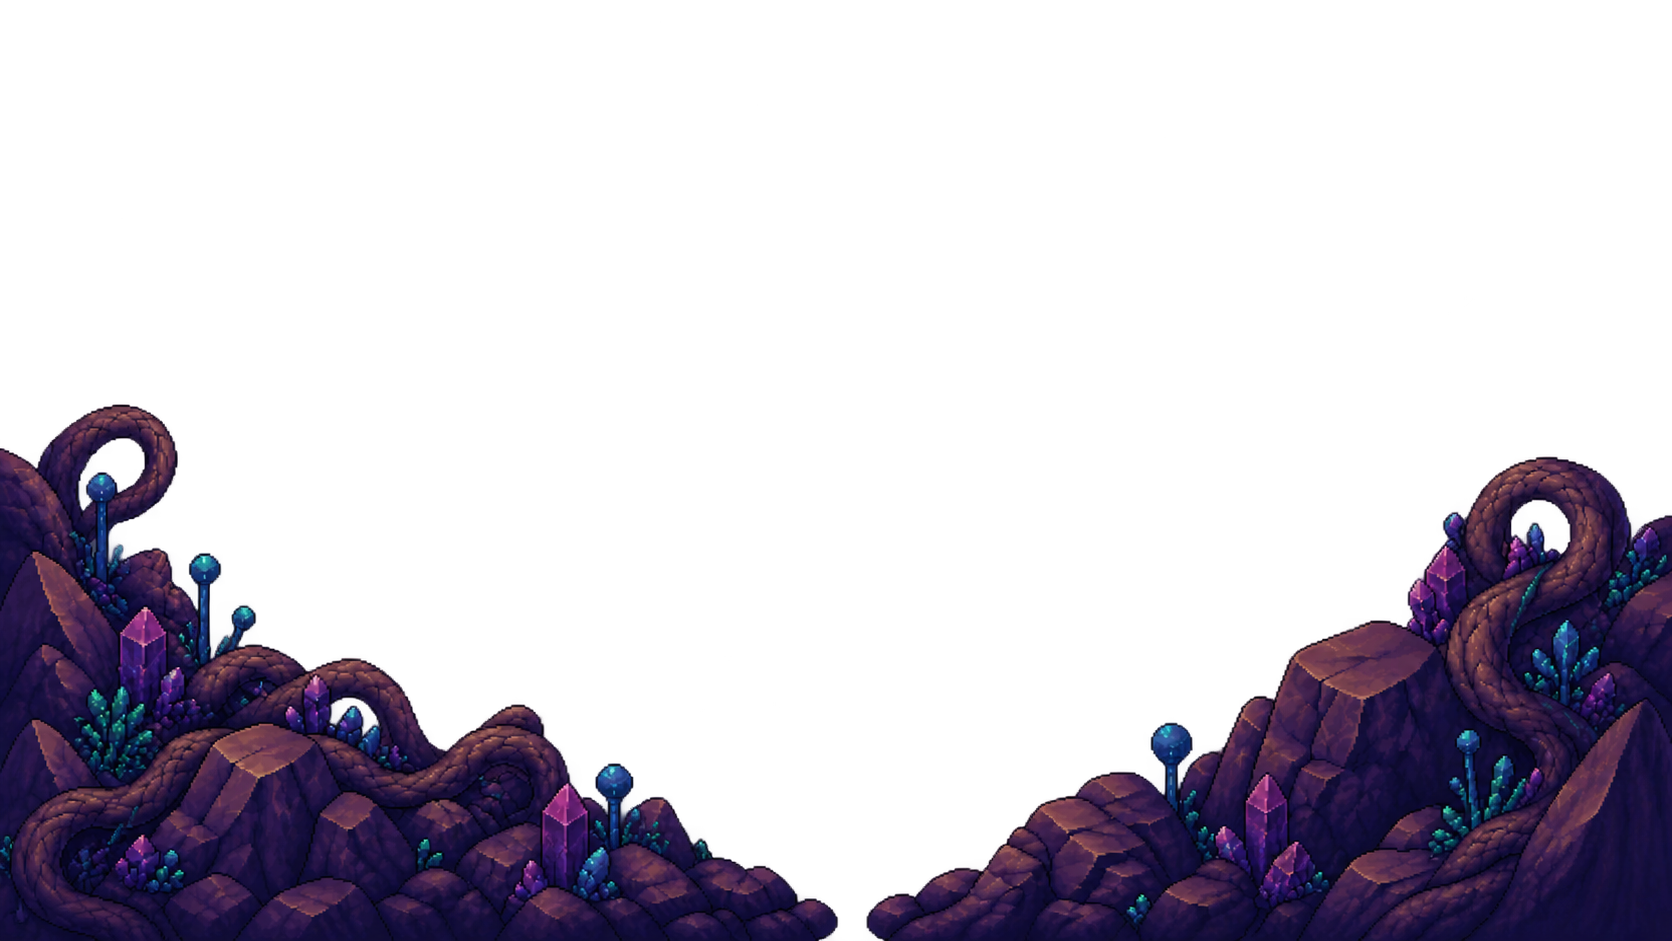
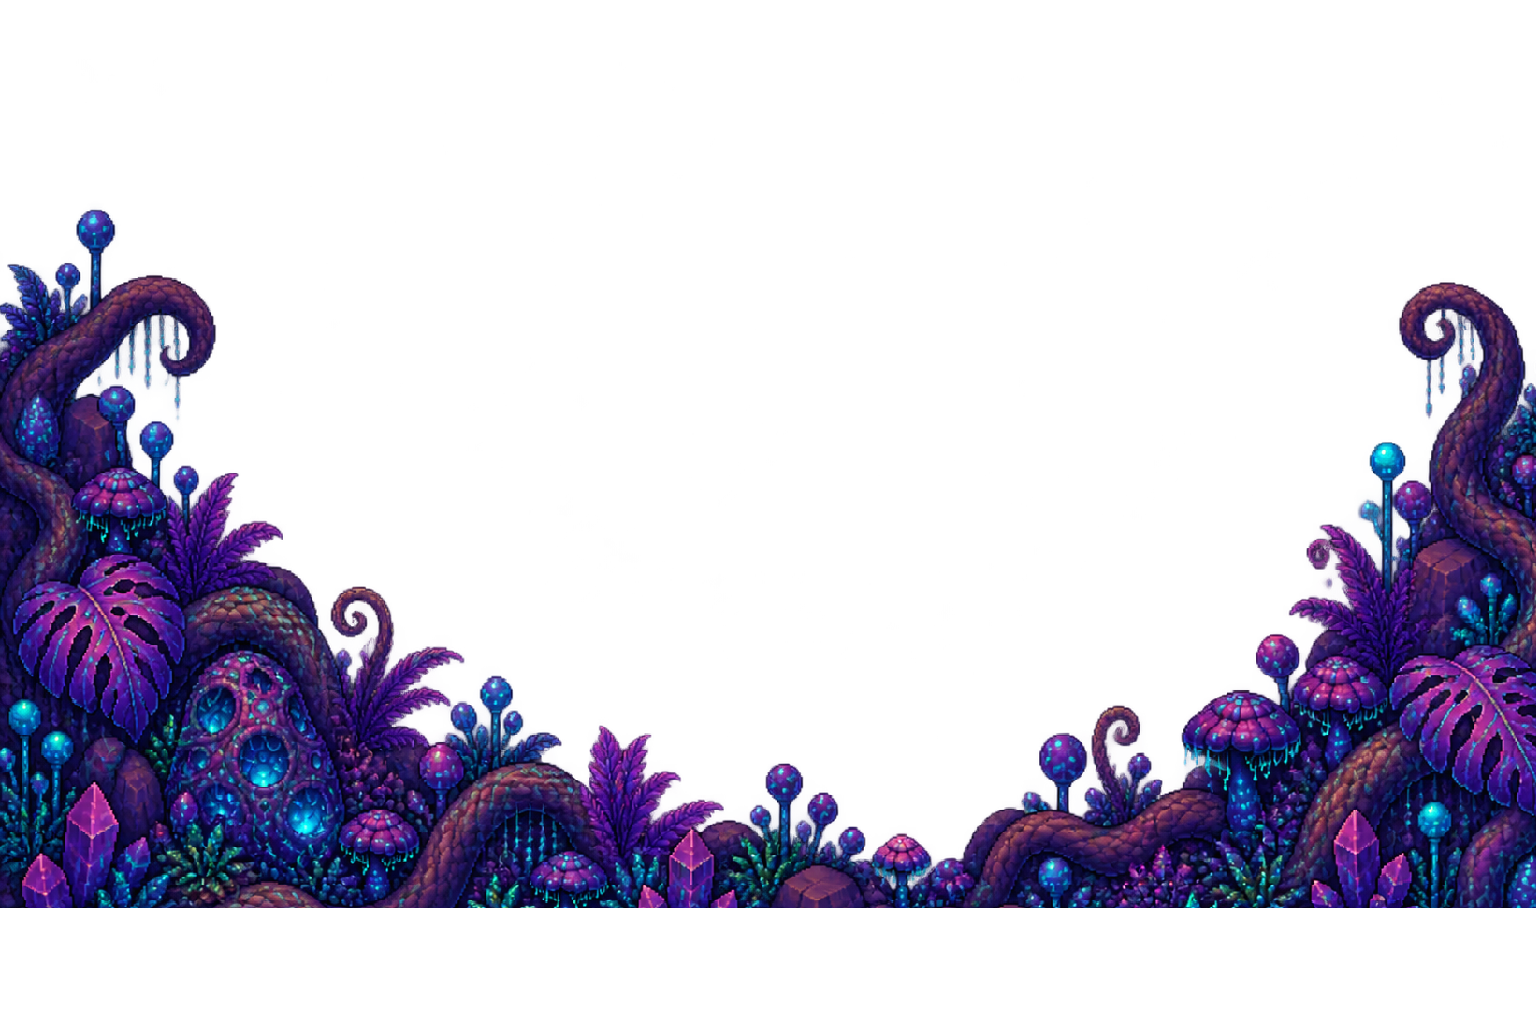
feat: integrate inactive BioBattery into initial map state
- Add BioBattery directly to the starting map
- Commented  BioBattery construction flow
- Commented obsolete construction objective and

diff --git a/src/game/buildings/buildingsConstructions/handleBioBatteryConstruction.ts b/src/game/buildings/buildingsConstructions/handleBioBatteryConstruction.ts
@@ -1,42 +1,42 @@
-import type { SetStateAction } from "react";
-import type { Ressources } from "../../type";
-import type { Building } from "../buildings.type";
-import { BUILDING_CONFIG } from "../buildingsConfig";
-import { canAffordBuilding } from "../canAffordBuilding";
-import type React from "react";
-import { substractBuildingCost } from "../substractBuildingCost";
+// import type { SetStateAction } from "react";
+// import type { Ressources } from "../../type";
+// import type { Building } from "../buildings.type";
+// import { BUILDING_CONFIG } from "../buildingsConfig";
+// import { canAffordBuilding } from "../canAffordBuilding";
+// import type React from "react";
+// import { substractBuildingCost } from "../substractBuildingCost";
 
 
-//This file should be later replaced with an orchestrative function in charge of the dispatch, depending on the building the user wants to build
-export const handleBioBatteryConstruction = (
-    buildings : Building[],
-    ressources : Ressources,
-    setRessources : React.Dispatch<SetStateAction<Ressources>>,
-    setBuildings : React.Dispatch<SetStateAction<Building[]>>
-  ) => {
-    const config = BUILDING_CONFIG.bioBattery;
+// //This file should be later replaced with an orchestrative function in charge of the dispatch, depending on the building the user wants to build
+// export const handleBioBatteryConstruction = (
+//     buildings : Building[],
+//     ressources : Ressources,
+//     setRessources : React.Dispatch<SetStateAction<Ressources>>,
+//     setBuildings : React.Dispatch<SetStateAction<Building[]>>
+//   ) => {
+//     const config = BUILDING_CONFIG.bioBattery;
 
-    const buildingCost : Partial<Ressources> = config.cost
+//     const buildingCost : Partial<Ressources> = config.cost
 
-    const bioBatteryAlreadyExists = buildings.some(
-      (building) => building.type === "bioBattery",
-    );
+//     const bioBatteryAlreadyExists = buildings.some(
+//       (building) => building.type === "bioBattery",
+//     );
 
-    if (bioBatteryAlreadyExists) return;
+//     if (bioBatteryAlreadyExists) return;
 
-    if (!canAffordBuilding(ressources, buildingCost))
-      return;
+//     if (!canAffordBuilding(ressources, buildingCost))
+//       return;
 
-    setRessources((currentRessources) =>
-      substractBuildingCost(currentRessources, buildingCost),
-    );
+//     setRessources((currentRessources) =>
+//       substractBuildingCost(currentRessources, buildingCost),
+//     );
 
-    setBuildings((currentBuildings) => [
-      ...currentBuildings,
-      {
-        id: crypto.randomUUID(),
-        type: "bioBattery",
-        tileId : config.constructionTileId,
-      },
-    ]);
-  };
+//     setBuildings((currentBuildings) => [
+//       ...currentBuildings,
+//       {
+//         id: crypto.randomUUID(),
+//         type: "bioBattery",
+//         tileId : config.constructionTileId,
+//       },
+//     ]);
+//   };

diff --git a/src/rendering/environment/drawMidground.ts b/src/rendering/environment/drawMidground.ts
@@ -6,14 +6,130 @@ export const drawMidground = (
   assets: GameAssets,
 ) => {
   const image = assets.midground;
+  const secondImage = assets.midgroundTwo
+  const thirdImage = assets.midgroundThree
+
+
+  const fillerOne = assets.midgroundFillerOne
 
   if (!image) return;
 
   ctx.drawImage(
-    image,
-    0,
-    -205,
-    WORLD_WIDTH,
-    WORLD_HEIGHT,
+    thirdImage,
+    WORLD_WIDTH / 3,
+    -55,
+    WORLD_WIDTH / 3,
+    WORLD_HEIGHT / 3,
   );
+
+   ctx.drawImage(
+    thirdImage,
+    WORLD_WIDTH / 3,
+    -75,
+    WORLD_WIDTH / 3,
+    WORLD_HEIGHT / 3,
+  );
+
+    ctx.drawImage(
+    secondImage,
+    850,
+    -150,
+    WORLD_WIDTH / 3,
+    WORLD_HEIGHT / 2,
+  );
+
+      ctx.drawImage(
+    thirdImage,
+    450,
+    -160,
+    WORLD_WIDTH / 3,
+    WORLD_HEIGHT / 2,
+  );
+
+
+      ctx.drawImage(
+    thirdImage,
+    950,
+    -125,
+    WORLD_WIDTH / 3,
+    WORLD_HEIGHT / 2,
+  );
+
+
+        ctx.drawImage(
+    thirdImage,
+    1020,
+    -75,
+    WORLD_WIDTH / 3,
+    WORLD_HEIGHT / 2,
+  );
+
+  
+
+        ctx.drawImage(
+    image,
+    1080,
+    -75,
+    WORLD_WIDTH / 3,
+    WORLD_HEIGHT / 2,
+  );
+
+
+
+
+
+        ctx.drawImage(
+    thirdImage,
+    150,
+    -125,
+    WORLD_WIDTH / 3,
+    WORLD_HEIGHT / 2,
+  );
+
+          ctx.drawImage(
+    secondImage,
+    50,
+    -100,
+    WORLD_WIDTH / 3,
+    WORLD_HEIGHT / 2,
+  );
+
+            ctx.drawImage(
+    thirdImage,
+    50,
+    -90,
+    WORLD_WIDTH / 3,
+    WORLD_HEIGHT / 2,
+  );
+
+
+
+              ctx.drawImage(
+    secondImage,
+    -30,
+    -90,
+    WORLD_WIDTH / 3,
+    WORLD_HEIGHT / 2,
+  );
+
+  ctx.drawImage(
+    thirdImage,
+    -40,
+    -20,
+    WORLD_WIDTH / 5,
+    WORLD_HEIGHT / 2,
+  );
+
+
+    ctx.drawImage(
+    fillerOne,
+    -0,
+    300,
+    WORLD_WIDTH / 6,
+    WORLD_HEIGHT / 10
+  );
+
+
+  
+
 };

diff --git a/src/components/Hud/SideMenu.tsx b/src/components/Hud/SideMenu.tsx
@@ -13,9 +13,9 @@ import EmptyTileHud from "./ContextualHuds/EmptyTileHud";
 import InventoryComponents from "./Inventory/Inventory";
 import PlantHud from "./ContextualHuds/PlantHud";
 import type { Building } from "../../game/buildings/buildings.type";
-import { BUILDING_CONFIG } from "../../game/buildings/buildingsConfig";
-import { canAffordBuilding } from "../../game/buildings/canAffordBuilding";
-import { handleBioBatteryConstruction } from "../../game/buildings/buildingsConstructions/handleBioBatteryConstruction";
+// import { BUILDING_CONFIG } from "../../game/buildings/buildingsConfig";
+// import { canAffordBuilding } from "../../game/buildings/canAffordBuilding";
+// import { handleBioBatteryConstruction } from "../../game/buildings/buildingsConstructions/handleBioBatteryConstruction";
 import { findBuildingOnTile } from "../../game/buildings/findBuildingOnTile";
 
 interface SideMenuProps {
@@ -131,7 +131,7 @@ export default function SideMenu({
           <p> Données : {ressources.biologicalData}</p>
         </div>
 
-        {isBioBatteryAlreadyBuilt ? null : (
+        {/* {isBioBatteryAlreadyBuilt ? null : (
           <div>
             <p>Objectif Actuel : Construire la bioBattery</p>
             <button
@@ -153,12 +153,12 @@ export default function SideMenu({
               Construire BioBattery
             </button>
           </div>
-        )}
+        )} */}
 
-        <div style={{ display: "flex", gap: "5px", height: "100%" }}>
+        {/* <div style={{ display: "flex", gap: "5px", height: "100%" }}>
           <button> PARAMETRES</button>
           <button> SAVE</button>
-        </div>
+        </div> */}
       </div>
 
       <div style={{ position: "absolute", bottom: 15, right: 10 }}>

diff --git a/src/assets/loadAssets.ts b/src/assets/loadAssets.ts
@@ -44,7 +44,20 @@ export const loadAssets = async () => {
 
   const mapBackground = await loadImage("/assets/PNG/Assets/mapBackground.jpg")
   const midground = await loadImage("/assets/PNG/Assets/midground.png")
-    const foreground = await loadImage("/assets/PNG/Assets/foreground.png")
+  const midgroundTwo = await loadImage("/assets/PNG/Assets/midground_two.png")
+  const midgroundThree = await loadImage("/assets/PNG/Assets/midground_three.png")
+  const midgroundFour = await loadImage("/assets/PNG/Assets/midground_four.png")
+
+
+  const firstMapLake = await loadImage("/assets/PNG/Assets/first_map_lake.png")
+
+
+
+  const midgroundFillerOne = await loadImage("/assets/PNG/Assets/midgroundFillerOne.png")
+
+  const foreground = await loadImage("/assets/PNG/Assets/foreground.png")
+
+  
 
 
   return {
@@ -74,6 +87,14 @@ export const loadAssets = async () => {
 
     mapBackground,
     midground, 
+    midgroundTwo,
+    midgroundThree, 
+    midgroundFour,
+
+    midgroundFillerOne,
+
+    firstMapLake,
+
     foreground
   };
 };

diff --git a/src/game/decorations/initialDecorations.ts b/src/game/decorations/initialDecorations.ts
@@ -1,18 +1,18 @@
 import type { Decoration } from "./decoration.type";
 
 export const initialDecorations: Decoration[] = [
-  // {
-  //   id: "bioBattery-1",
-  //   tileId : 1,
-  //   assetKey : "bioBattery",
-  //   gridX: 0,
-  //   gridY: 12,
-  //   width: 350,
-  //   height: 250,
-  //   offsetY: -5,
-  //   offsetX: -40,
-  //   footPrint:{width: 7, height : 5}
-  // },
+  {
+    id: "bioBattery-1",
+    tileId : 1,
+    assetKey : "bioBattery",
+    gridX: 0,
+    gridY: 12,
+    width: 350,
+    height: 250,
+    offsetY: -5,
+    offsetX: -40,
+    footPrint:{width: 7, height : 5}
+  },
   // {
   //   id: "bioPalm-1",
   //   tileId : 9,
@@ -37,5 +37,20 @@ export const initialDecorations: Decoration[] = [
     offsetX: 0,
     footPrint : {width : 2, height : 2}
   }
+
+  ,
+    {
+    id: "lake_1",
+    tileId : 605,
+    assetKey : "firstMapLake",
+    gridX: 1,
+    gridY: 1,
+    width: 400,
+    height: 340,
+    offsetY: 0,
+    offsetX: 0,
+    footPrint : {width : 2, height : 2}
+  }
+
 
 ]

diff --git a/src/assets/assetTypes.ts b/src/assets/assetTypes.ts
@@ -7,7 +7,8 @@ export type DecorationAssetsKey =
   | "alienGround"
   | "alienGroundTwo"
   | "alienGroundThree"
-  | "spacePod";
+  | "spacePod"
+  | "firstMapLake";
 
 export type PlantAssetsKey =
   | "reactorMushroomStageOne"
@@ -18,7 +19,7 @@ export type PlantAssetsKey =
 
 export type OverlayAssets = "veins" | "spores" | "smallRock";
 
-export type BackgroundAssets = "mapBackground" | "midground" | "foreground"
+export type BackgroundAssets = "mapBackground" | "midground" | "midgroundTwo" | "midgroundThree" |"midgroundFour"| "midgroundFillerOne" |"foreground"
 
 export type AssetsKey = DecorationAssetsKey | PlantAssetsKey | OverlayAssets | BackgroundAssets;
 export type GameAssets = Record<AssetsKey, HTMLImageElement >;

diff --git a/src/rendering/environment/drawForeground.ts b/src/rendering/environment/drawForeground.ts
@@ -7,13 +7,24 @@ export  const drawForeground = (
 ) => {
   const image = assets.foreground;
 
+  const secondImage = assets.midgroundThree
+
+
   if (!image) return;
 
   ctx.drawImage(
     image,
     0,
-    -75,
+    -10,
    WORLD_WIDTH,
    WORLD_HEIGHT
+  );
+
+    ctx.drawImage(
+    secondImage,
+    1350,
+    -25,
+   WORLD_WIDTH / 2,
+   WORLD_HEIGHT / 1.5
   );
 };

diff --git a/src/components/Hud/ContextualHuds/EmptyTileHud.tsx b/src/components/Hud/ContextualHuds/EmptyTileHud.tsx
@@ -25,6 +25,7 @@ setIsSelectedTileOccupied
   return (
     <div>
       <h3>Emplacement vide</h3>
+      {selectedTile.id}
       <p>Cette parcelle de terre est fertile ! Vous pouvez y planter n'importe laquelle de vos graines </p>
       <button onClick={() => setIsInventoryOpen(!isInventoryOpen)}>
         {isInventoryOpen ? "Fermer l'inventaire" : "Ouvrir l'inventaire"}
